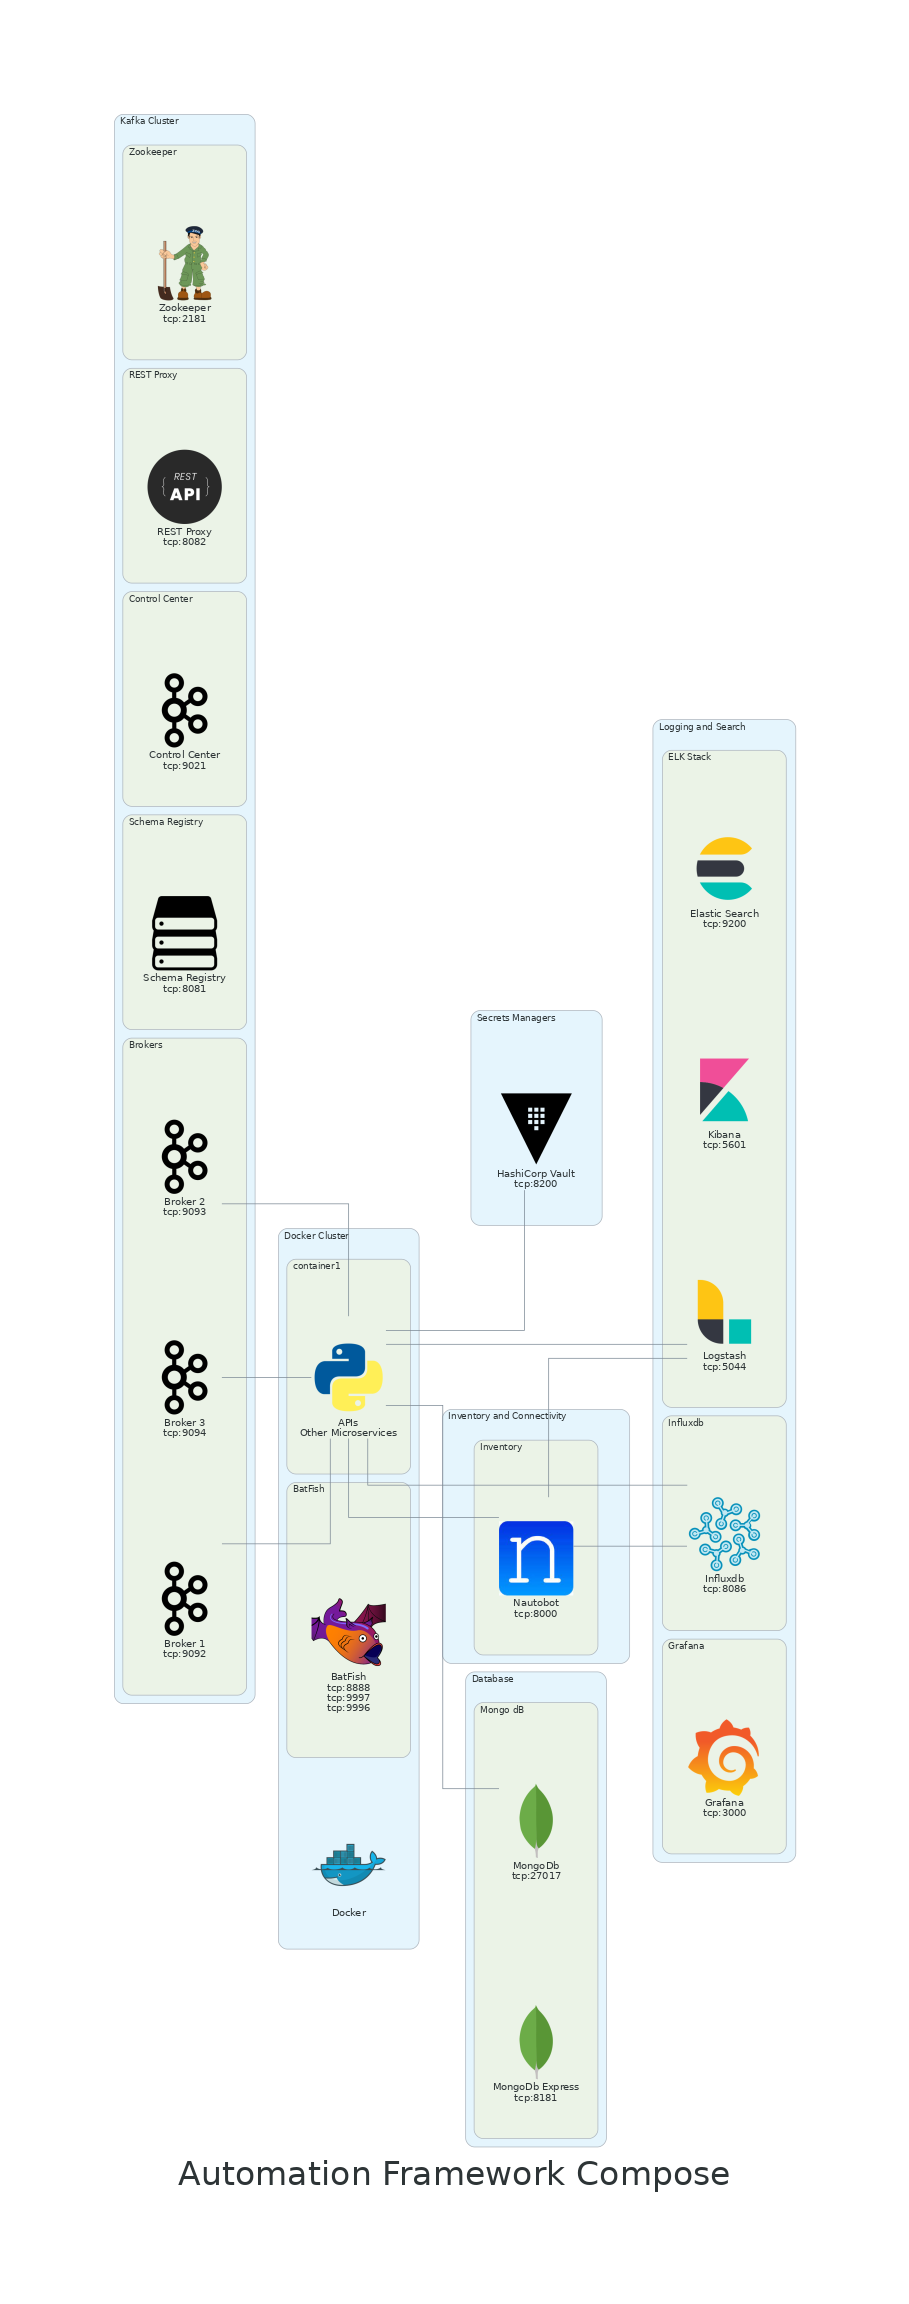
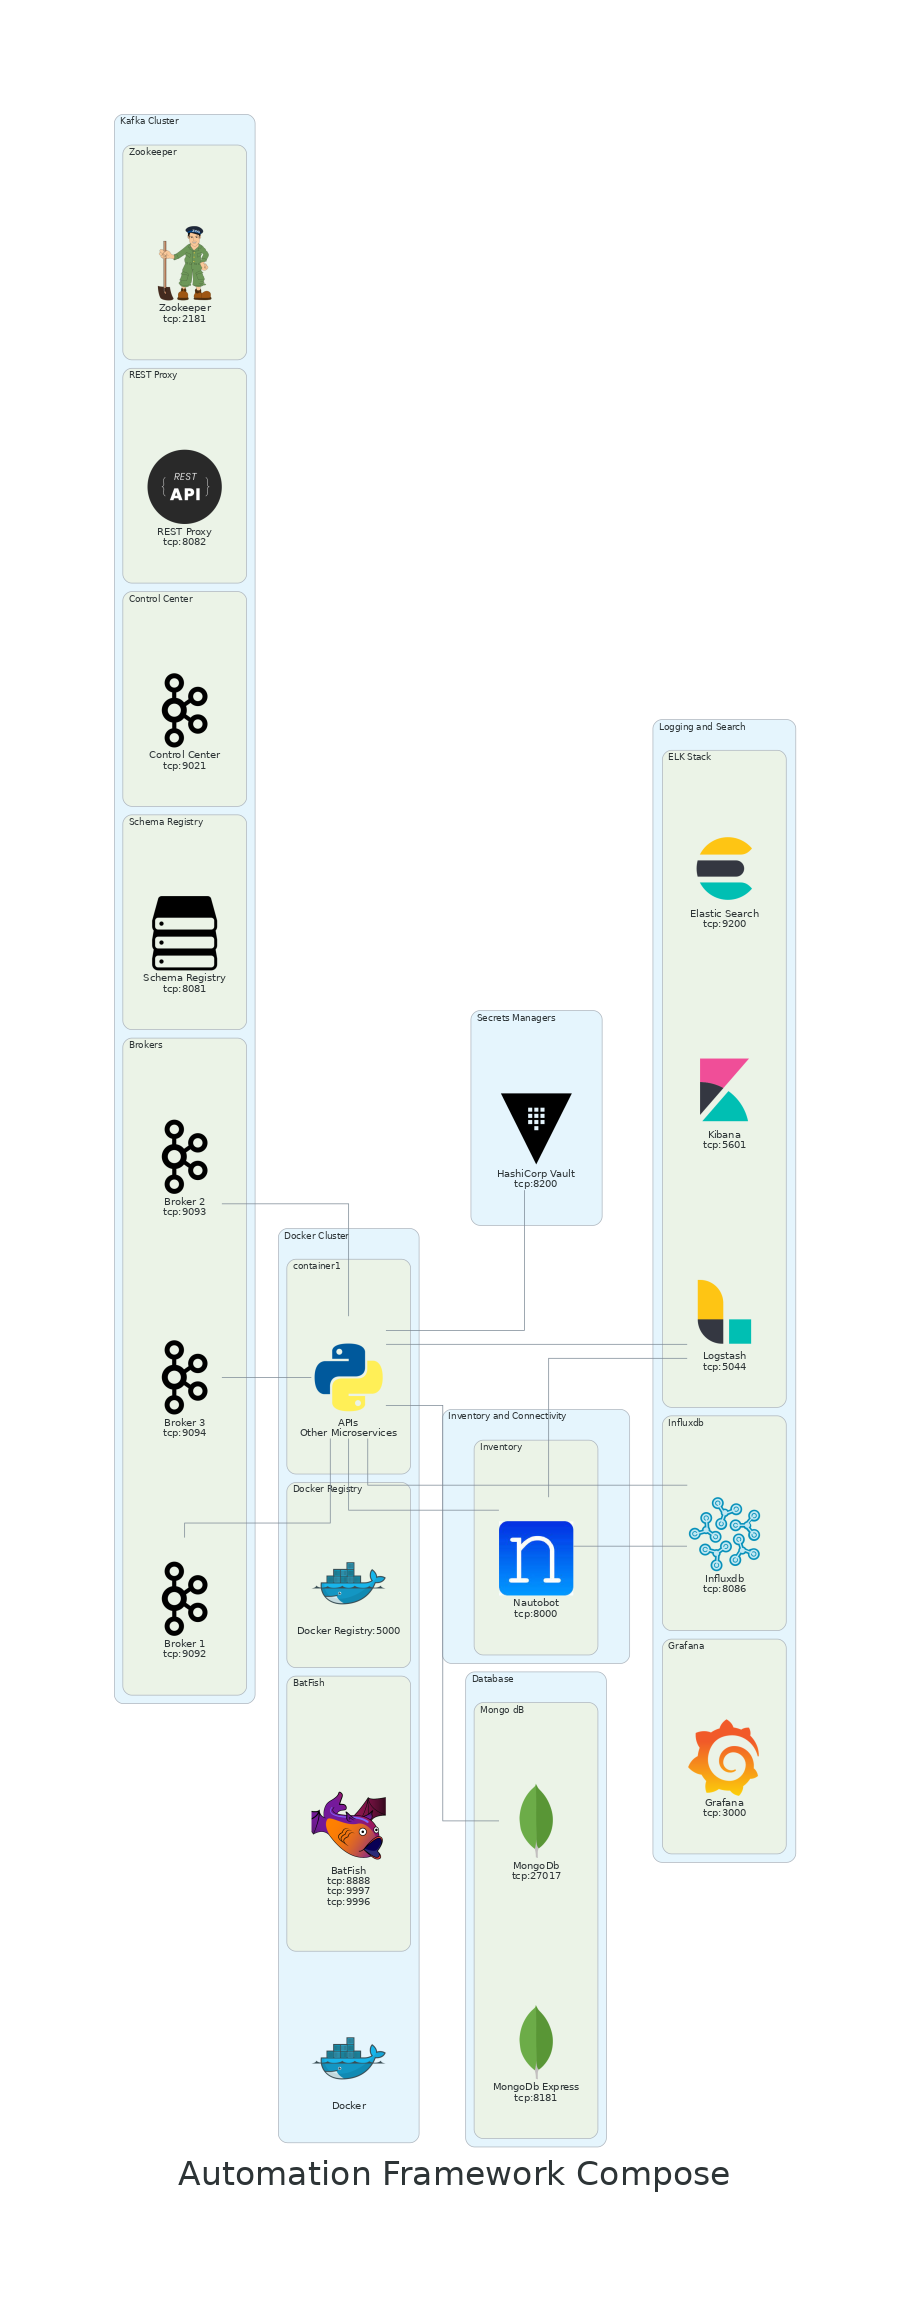
Updated diagrahm

Changed region(s): [[0.308, 0.7812, 0.462, 0.9375], [0.3388, 0.6562, 0.4312, 0.75]]

diff --git a/diagrams/automation_framework_compose.py b/diagrams/automation_framework_compose.py
@@ -29,6 +29,9 @@ def main():
             with Cluster('container1'):
                 python_container = Python('APIs\nOther Microservices')
 
+            with Cluster('Docker Registry'):
+                docker_registry_container = Docker('Docker Registry:5000')
+
             with Cluster('BatFish'):
                 batfish_container = Custom('BatFish\ntcp:8888\ntcp:9997\ntcp:9996', 'custom_icons/BatFish.png')
 
